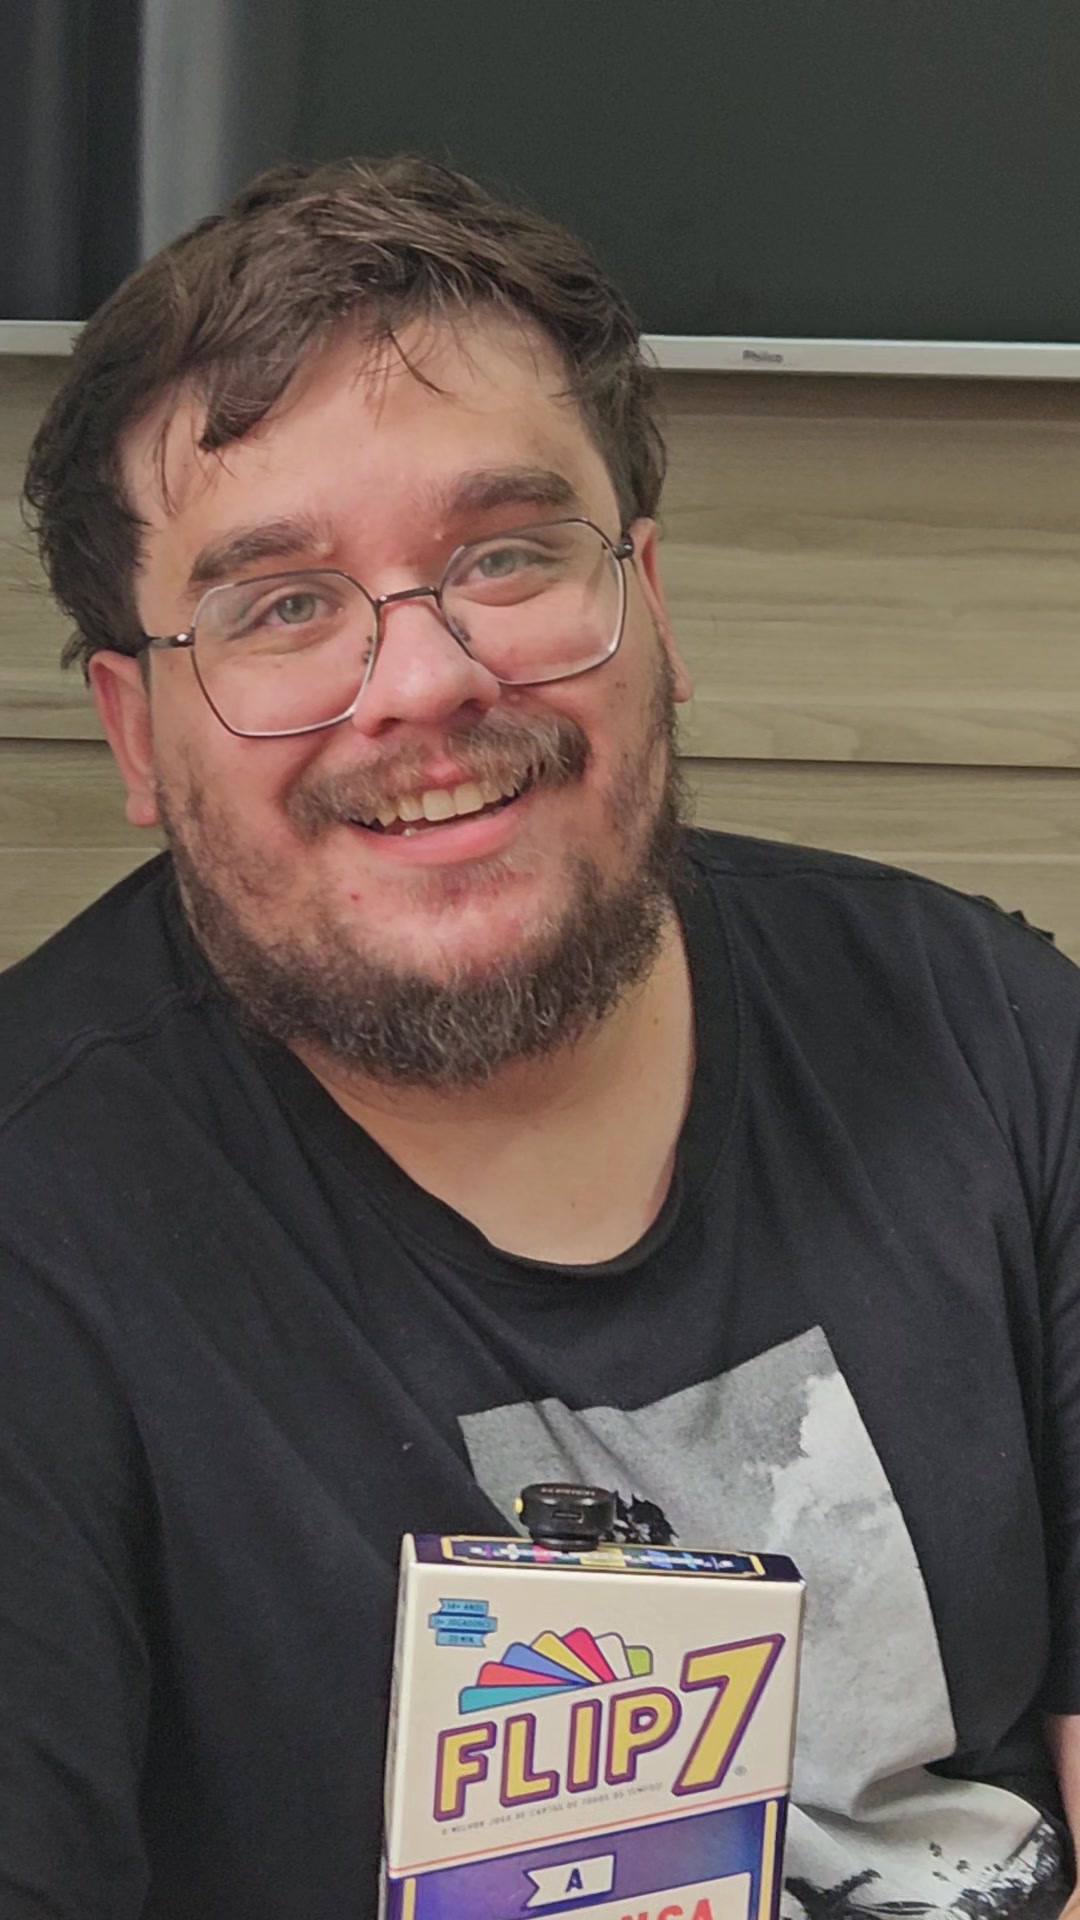
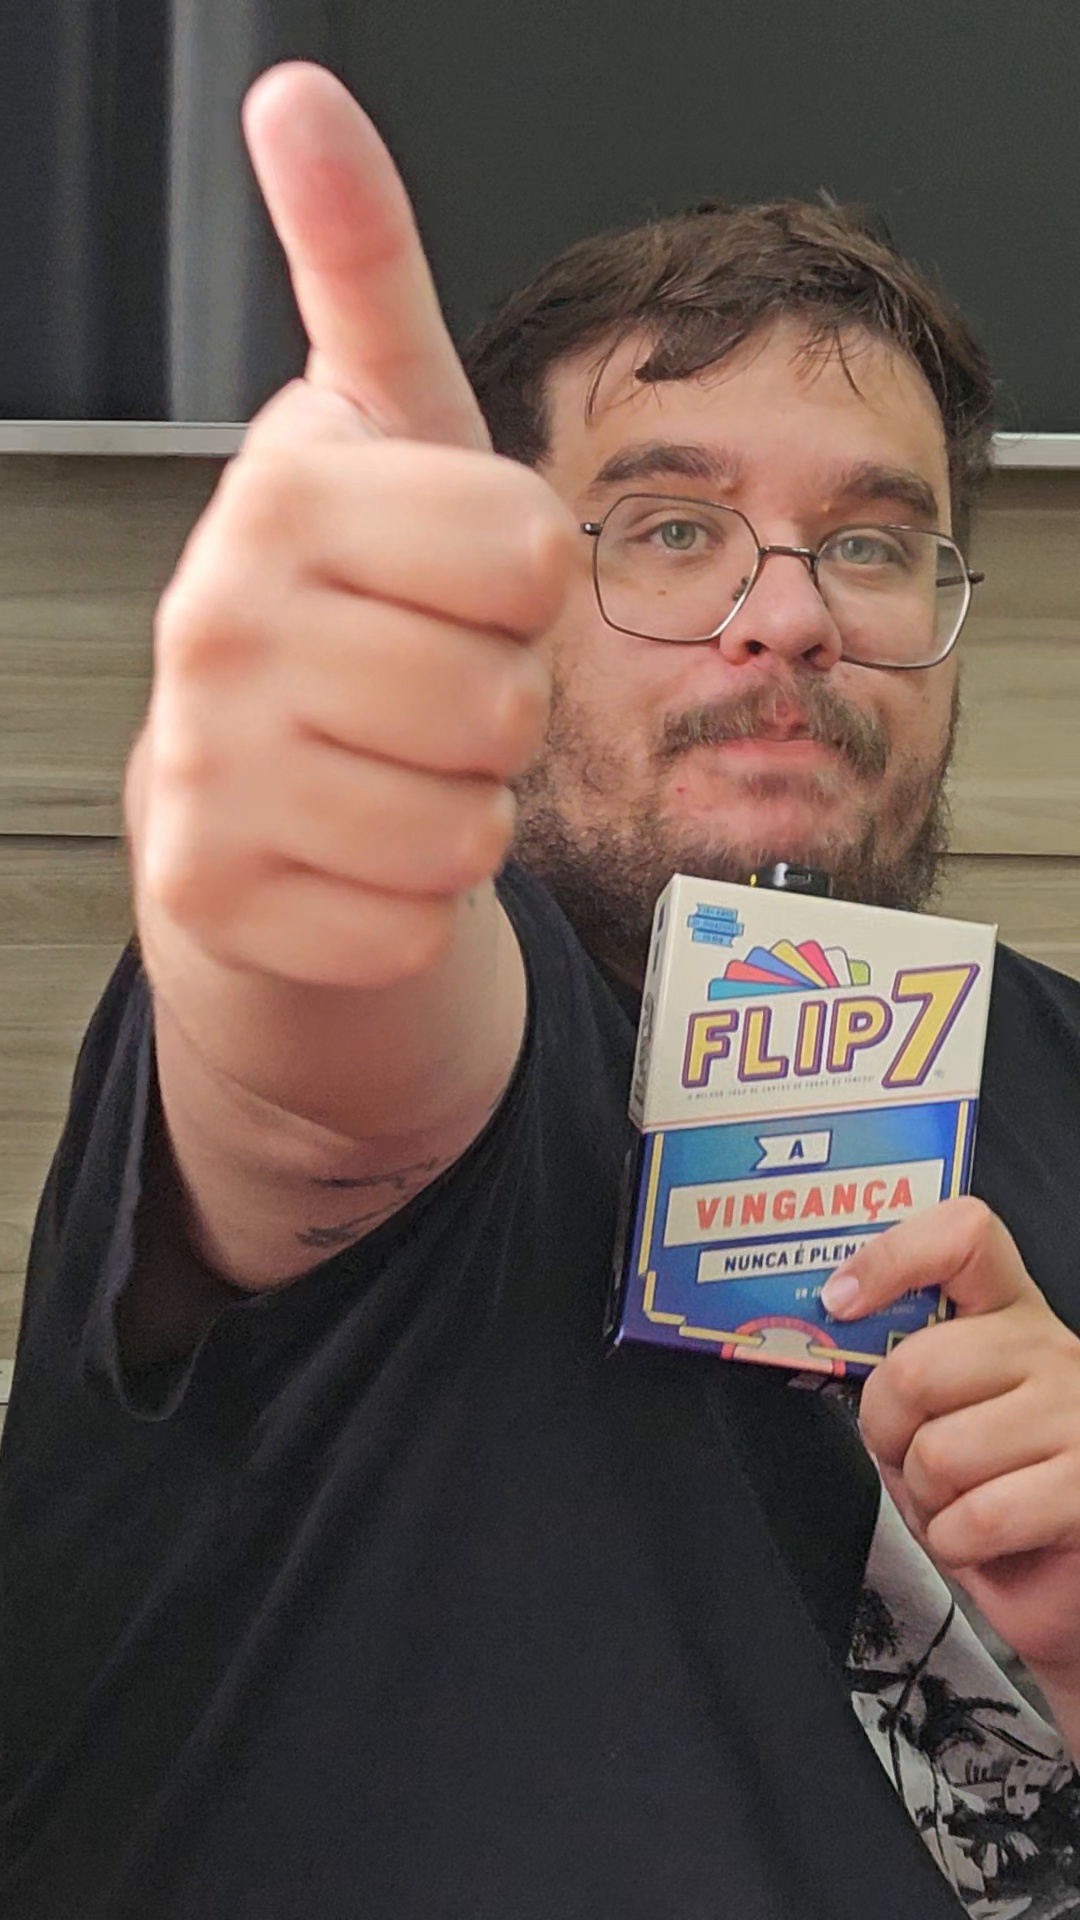
Capa do Top 10 do Erik: foto da joia
Claude-Session: https://claude.ai/code/session_016Eit55JTpd7pd8t74j7ysC

diff --git a/gravados-reels/capa_top10_erik.py b/gravados-reels/capa_top10_erik.py
@@ -75,19 +75,20 @@ def cartao(n):
 
 
 def foto_erik(d):
-    """Rosto do Erik sorrindo e olhando pra câmera (quadro de 16,0 s do 152424), num círculo com contorno marrom.
-    O recorte fica do peito pra cima: a caixa do Flip 7 (o Nº 1) que ele segura NÃO aparece."""
+    """Erik fazendo JOIA e olhando pra câmera (quadro de 124,6 s do 152424, pedido dele), num cartão quadrado de cantos
+    redondos (no círculo o polegar ficava cortado). O recorte para em y 850: logo abaixo ele segura a caixa do Flip 7,
+    que é o Nº 1 escondido da capa."""
     im = Image.open(os.path.join(ROOT, "assets", "capa", "erik_top10.jpg")).convert("RGB")
-    im = im.crop((0, 250, 780, 1030)).resize((d, d), Image.LANCZOS)
-    ow, sh = 9, 12
-    out = Image.new("RGBA", (d + 2 * ow + sh, d + 2 * ow + sh), (0, 0, 0, 0))
+    im = im.crop((120, 0, 970, 850)).resize((d, d), Image.LANCZOS)
+    ow, sh, r = 9, 12, 44
+    t = d + 2 * ow
+    out = Image.new("RGBA", (t + sh, t + sh), (0, 0, 0, 0))
     dr = ImageDraw.Draw(out)
-    dr.ellipse((sh, sh, d + 2 * ow + sh, d + 2 * ow + sh), fill=INK)
-    dr.ellipse((0, 0, d + 2 * ow, d + 2 * ow), fill=(250, 250, 250))
+    dr.rounded_rectangle((sh, sh, t + sh - 1, t + sh - 1), r, fill=INK)
+    dr.rounded_rectangle((0, 0, t - 1, t - 1), r, fill=INK)
     m = Image.new("L", (d, d), 0)
-    ImageDraw.Draw(m).ellipse((0, 0, d - 1, d - 1), fill=255)
+    ImageDraw.Draw(m).rounded_rectangle((0, 0, d - 1, d - 1), r - ow, fill=255)
     out.paste(im, (ow, ow), m)
-    dr.ellipse((0, 0, d + 2 * ow, d + 2 * ow), outline=INK, width=ow - 2)
     return out
 
 
@@ -96,7 +97,7 @@ def main():
     img = fundo()
     # título
     E.cola(img, E.pilula("SEM SABER O PRÓXIMO JOGO!", 38, (219, 39, 119), (250, 250, 250)), W / 2, 300, -2)
-    E.cola(img, foto_erik(360), 225, 528, -4)
+    E.cola(img, foto_erik(340), 222, 535, -4)
     E.cola(img, E.titulo("TOP 10\nÀS CEGAS", 122, (255, 199, 31)), 712, 500, -2)
     E.cola(img, E.pilula("VERSÃO ERIK", 44, (28, 124, 150), (250, 250, 250), fonte_titulo=True), 712, 690, 2)
     # do 2 ao 10, em 3 colunas

diff --git a/CLAUDE.md b/CLAUDE.md
@@ -884,5 +884,5 @@ e sem argumentos (gera com e sem legenda). Os vídeos ficam em `out/`, que **nã
   Queijo Pizza ("dói a mão"), 10 Draftosaurus. ~80 s. Legenda quebra em linhas de até 760 px (antes cortava na borda). **2ª rodada (Erik):** a escadinha à esquerda ficava em cima do rosto dele → no perfil dele `lado="dir"`: escadinha à DIREITA (236 px, colada na borda), caixa grande à esquerda e mais baixa, legenda deslocada para a esquerda e SEM o selo "QUE POSIÇÃO?" (batia no rosto ou na legenda). A da Jéssica continua como estava. Como todos os 10 do Erik estão no site, a tela final dele diz "TODOS ESSES ESTÃO NO NOSSO ACERVO" (`acervo` no perfil).
   **Capa do Reels do Erik** (`gravados-reels/capa_top10_erik.py`, 2/nov): fundo NOVO (azul-noite com holofote e confete), "SEM SABER O
   PRÓXIMO JOGO!", "TOP 10 ÀS CEGAS", "VERSÃO ERIK", caixas do 2º ao 10º numeradas em 3x3 e o Nº 1 ESCONDIDO ("QUAL FOI O Nº 1
-  DELE?") para dar curiosidade; tudo dentro de y 285–1635. 2ª rodada: foto dele num círculo ao lado do título (quadro de 16,0 s do 152424,
-  sorrindo e olhando pra câmera; recorte do peito pra cima porque ele segura o Flip 7 = o Nº 1).
+  DELE?") para dar curiosidade; tudo dentro de y 285–1635. 2ª rodada: foto dele ao lado do título; ele pediu a da JOIA (124,6 s do 152424, cartão de cantos redondos;
+  recorte até y 850 porque logo abaixo ele segura o Flip 7 = o Nº 1).
